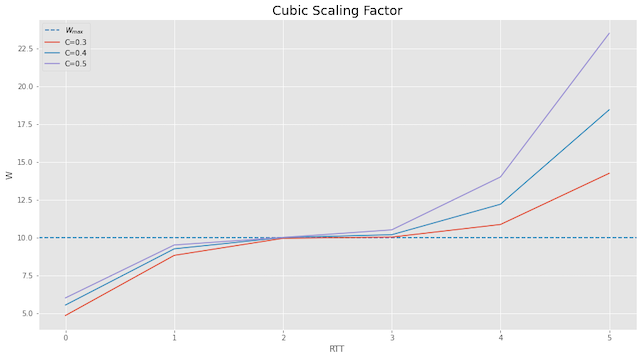
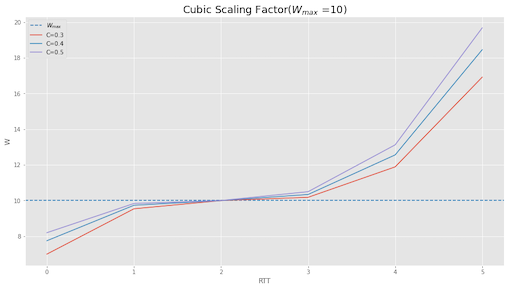
fixup

diff --git a/_posts/2022-9-02-TCP-Congestion-Experiment.md b/_posts/2022-9-02-TCP-Congestion-Experiment.md
@@ -185,12 +185,12 @@ W(t) = C(t-K)^3+W_{max}
 $$
 
 $$
-K = \sqrt[3]{\frac{W_{max}\beta}{C}}
+K = \sqrt[3]{\frac{W_{max}(1-\beta)}{C}}
 $$
 
 
 where `C` is the scaling constant factor (default=0.4). `C` controls how fast the window will grow. $\beta$ is the 
-multiplicative decrease factor after packet loss event, it's default value is 0.2.`t` is the elapsed time from the last 
+multiplicative decrease factor after packet loss event, it's default value is 0.7.`t` is the elapsed time from the last 
 window reduction and `K` is the time period that the function requires to increase `W` to $W_{max}$. 
 
 The below plot shows the TCP Cubic function for scaling constant `C` with `0.3,0.4 and 0.5` values. We can see how for `C=0.5`,
